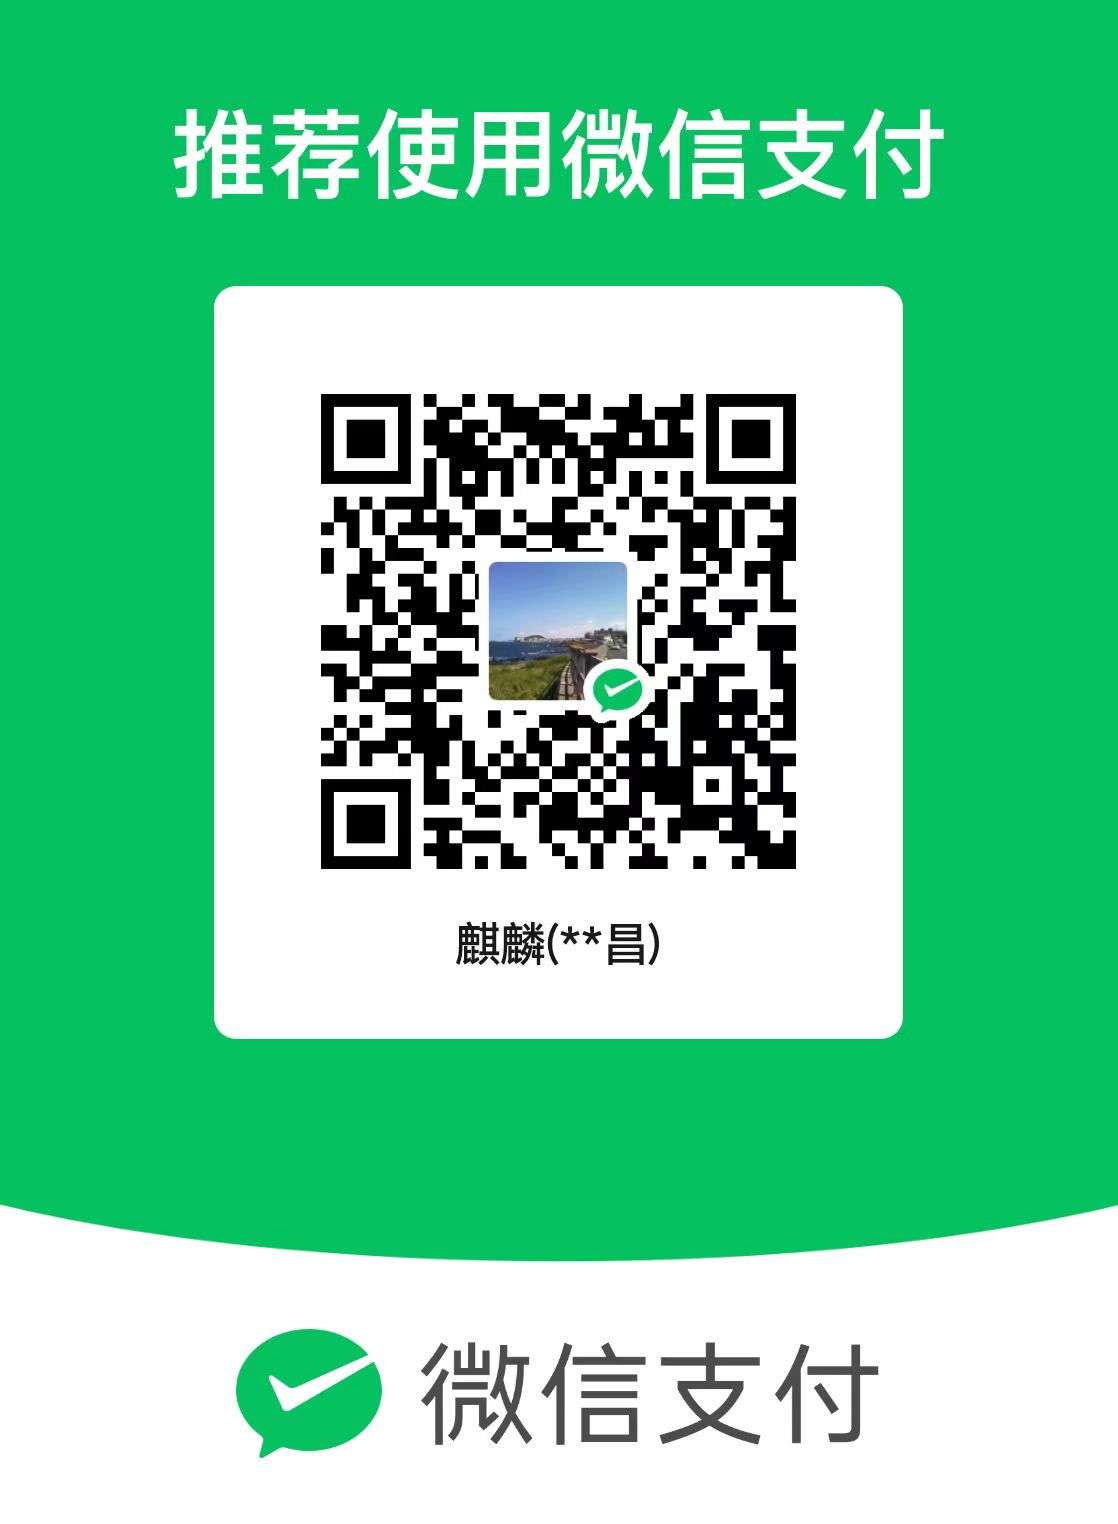
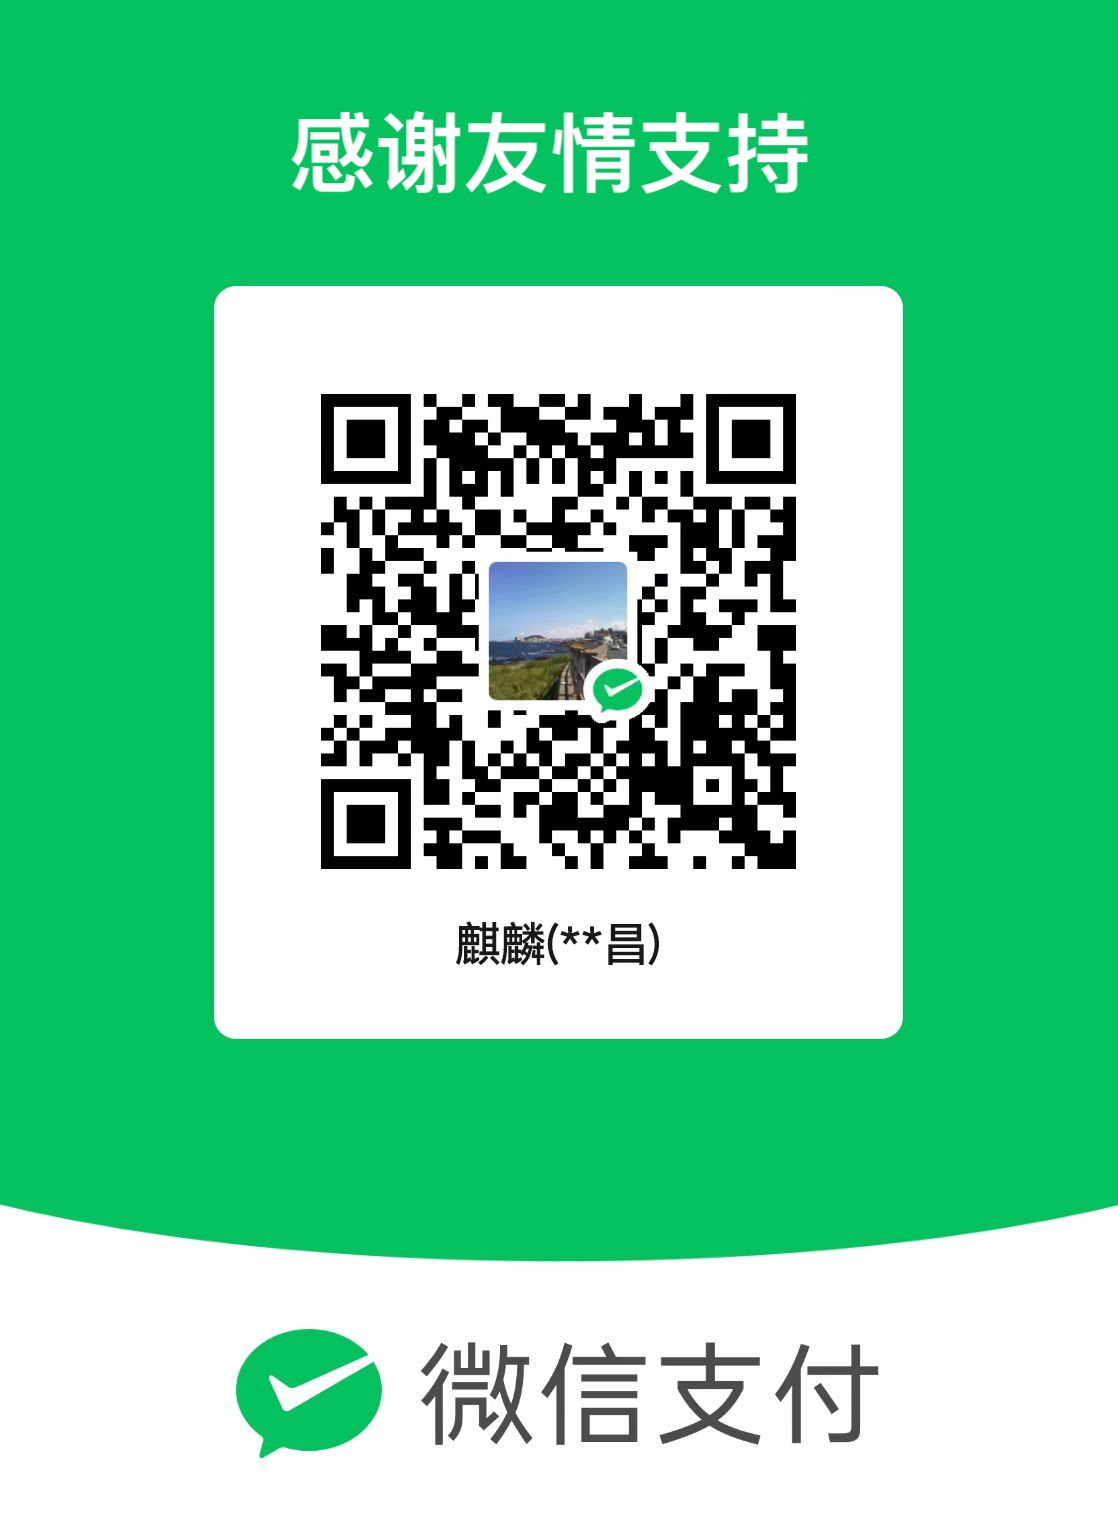
init

Changed region(s): [[0.1521, 0.0617, 0.8515, 0.1542]]

diff --git a/README.md b/README.md
@@ -1,2 +1,4 @@
 源码进行了二次开发，在原基础上支持MySql 、DM(达梦)、HighGoDB(瀚高)三种数据库，感谢友情支持！
+<div style="text-align: center;">
 <img src="https://github.com/zzccctv/kong/blob/master/WechatIMG555.jpg" width="300" height="400">
+</div>
